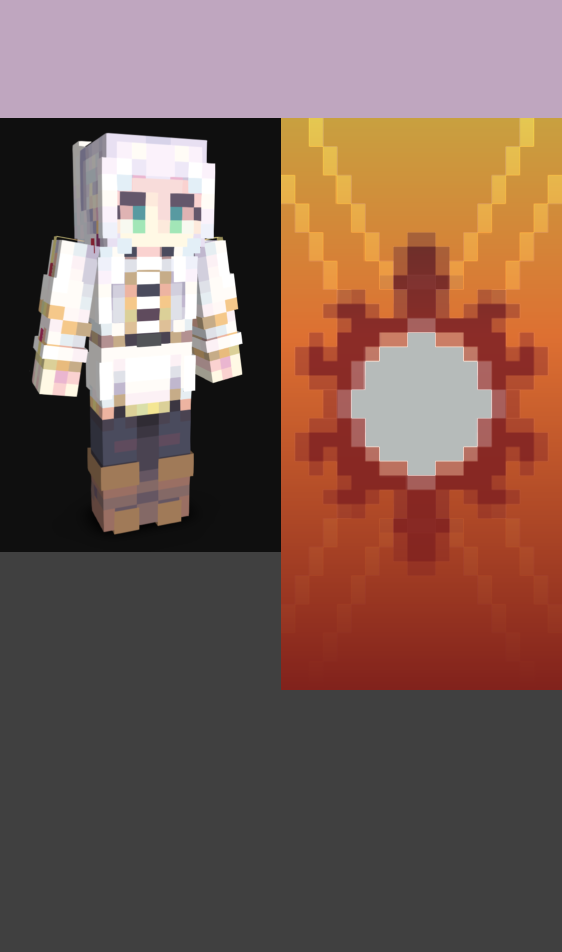
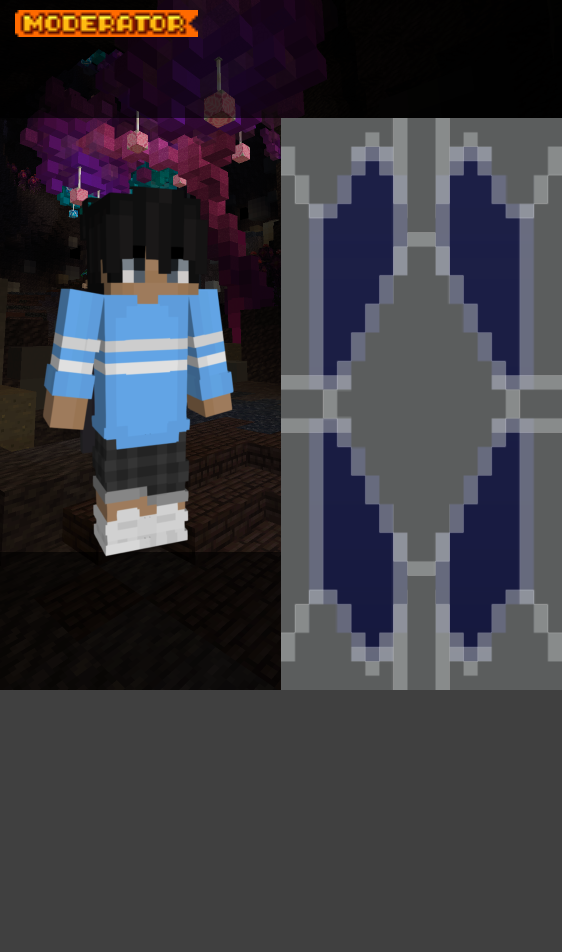
progress on card

diff --git a/statscard/statscard.go b/statscard/statscard.go
@@ -34,12 +34,31 @@ var colorMap = map[string]color.RGBA{
 	"WHITE":      {R: 182, G: 187, B: 186, A: 255},
 }
 
+const darkenFactor = 0.5
+
+var darkenedMap = func() map[string]color.RGBA {
+	darkened := make(map[string]color.RGBA)
+
+	for name, col := range colorMap {
+		darkened[name] = color.RGBA{
+			R: uint8(float64(col.R) * darkenFactor),
+			G: uint8(float64(col.G) * darkenFactor),
+			B: uint8(float64(col.B) * darkenFactor),
+			A: col.A, // Keep alpha unchanged
+		}
+	}
+
+	return darkened
+}()
+
+const darken = 0.5
+
 const width, height = 562, 952 // magic numbers
-const header_width, header_height = width, 118
-const image_width, image_height = width / 2, 434
-const main_width, main_height = width, height - header_height
-const banner_width, banner_height = width - image_width, height - header_height - footer_height
-const footer_width, footer_height = width, 262
+const headerWidth, headerHeight = width, 118
+const imageWidth, imageHeight = width / 2, 434
+const mainWidth, mainHeight = width, height - headerHeight
+const bannerWidth, bannerHeight = width - imageWidth, height - headerHeight - footerHeight
+const footerHidth, footerHeight = width, 262
 
 func RecolorImage(img image.Image, recolor color.RGBA) image.Image {
 	bounds := img.Bounds()
@@ -76,10 +95,10 @@ func LoadImage(filePath string) (image.Image, error) {
 }
 
 func CreateBanner(data models.PlayerData) (*gg.Context, error) {
-	api_URL := "https://api.wynncraft.com/v3/guild/%s"
+	apiURL := "https://api.wynncraft.com/v3/guild/%s"
 	guild := data.Guild.Name
 
-	url := fmt.Sprintf(api_URL, guild)
+	url := fmt.Sprintf(apiURL, guild)
 	resp, err := http.Get(url)
 	if err != nil {
 		return nil, fmt.Errorf("cannot access url")
@@ -88,32 +107,33 @@ func CreateBanner(data models.PlayerData) (*gg.Context, error) {
 
 		var guildData models.GuildData
 		err = json.NewDecoder(resp.Body).Decode(&guildData)
+		banner := gg.NewContext(bannerWidth, bannerHeight)
 
 		if err != nil {
-			return nil, fmt.Errorf("cannot decode json")
-		} else {
-			banner := gg.NewContext(banner_width, banner_height)
-
-			banner.SetColor(colorMap[guildData.Banner.Base])
+			banner.SetColor(darkenedMap["GRAY"])
 			banner.Clear()
-			banner.Scale(banner_width/160.0, banner_height/320.0)
+		} else {
+			// banner := gg.NewContext(bannerWidth, bannerHeight)
+
+			banner.SetColor(darkenedMap[guildData.Banner.Base])
+			banner.Clear()
+			banner.Scale(bannerWidth/160.0, bannerHeight/320.0)
 
 			for _, layer := range guildData.Banner.Layers {
-				color := colorMap[layer.Colour]
-				image_path := fmt.Sprintf("statscard/banner/%s.png", layer.Pattern)
-				layer_base, err := LoadImage(image_path)
+				color := darkenedMap[layer.Colour]
+				imagePath := fmt.Sprintf("statscard/banner/%s.png", layer.Pattern)
+				layerBase, err := LoadImage(imagePath)
 				if err != nil {
 					return nil, fmt.Errorf("problem loading image")
 				}
-				recolored_image := RecolorImage(layer_base, color)
+				recoloredImage := RecolorImage(layerBase, color)
 				if err != nil {
 					return nil, fmt.Errorf("cannot draw layer")
 				}
-				banner.DrawImage(recolored_image, 0, 0)
+				banner.DrawImage(recoloredImage, 0, 0)
 			}
-
-			return banner, nil
 		}
+		return banner, nil
 
 	}
 }
@@ -124,28 +144,34 @@ func CreateStatsCard(data models.PlayerData, outputDir string, fileName string) 
 
 	// background
 	card.SetColor(color.RGBA{R: 64, G: 64, B: 64, A: 255})
-	card.Clear()
+	card.Clear() // this only ends up in the footer tbh
+
+	background, err := LoadImage("statscard/images/background.png")
+	if err != nil {
+		return fmt.Errorf("failed to load background: %v", err)
+	}
+	card.DrawImage(background, 0, 0)
 
 	// boxes
-	card.SetColor(color.RGBA{R: 191, G: 166, B: 191, A: 255})
-	card.DrawRectangle(0, 0, header_width, header_height)
-	card.Fill()
+	card.SetColor(color.RGBA{R: 0, G: 0, B: 0, A: 158})
+	card.DrawRectangle(0, 0, headerWidth, headerHeight)
 
-	card.SetColor(color.RGBA{R: 15, G: 15, B: 15, A: 255})
-	card.DrawRectangle(0, header_height, image_width, image_height)
+	card.DrawRectangle(0, headerHeight+imageHeight, imageWidth, bannerHeight-imageHeight)
 	card.Fill()
 
 	// player avatar
-	avatar_img, err := fetchAvatar(data.Username)
+
+	avatarImg, err := fetchAvatar(data.Username)
 	if err != nil {
 		return fmt.Errorf("failed to fetch avatar: %v", err)
 	}
-	scaling := min(image_width/512.0, image_height/869.0)
+
+	scaling := min(imageWidth/512.0, imageHeight/869.0) * 0.9
 	avatar := gg.NewContext(int(math.Round(512*scaling)), int(math.Round(869*scaling)))
 	avatar.Scale(scaling, scaling)
-	avatar.DrawImage(avatar_img, 0, 0)
+	avatar.DrawImage(avatarImg, 0, 0)
 
-	card.DrawImageAnchored(avatar.Image(), image_width/2, header_height+image_height/2, 0.5, 0.5)
+	card.DrawImageAnchored(avatar.Image(), imageWidth/2, headerHeight+imageHeight/2, 0.5, 0.4)
 
 	// guild background
 	banner, err := CreateBanner(data)
@@ -153,7 +179,23 @@ func CreateStatsCard(data models.PlayerData, outputDir string, fileName string) 
 		return fmt.Errorf("error creating banner %v", err)
 	}
 
-	card.DrawImage(banner.Image(), image_width, header_height)
+	card.DrawImage(banner.Image(), imageWidth, headerHeight)
+
+	// header content
+	rankBadge := (*data.RankBadge)[15 : len(*data.RankBadge)-4]
+	rankImg, err := LoadImage(fmt.Sprintf("statscard/ranks/%s.png", rankBadge))
+	if err != nil {
+		return fmt.Errorf("error loading rank badge: %v", err)
+	}
+	badge := gg.NewContext(int(math.Round(headerWidth/3.0)), int(math.Round(headerHeight/3.0)))
+	badge.Scale(math.Round(headerHeight/45.0), math.Round(headerHeight/45.0))
+	badge.DrawImage(rankImg, 0, 0)
+
+	card.DrawImage(badge.Image(), 15, 10)
+
+	if err := card.LoadFontFace("/Library/Fonts/Impact.ttf", 96); err != nil {
+		panic(err)
+	}
 
 	saveErr := card.SavePNG(outputDir + "/" + fileName)
 	if saveErr != nil {

diff --git a/pythonhelper/svg.py b/pythonhelper/svg.py
@@ -60,59 +60,82 @@ def download_and_convert_svgs(svg_urls, output_dir):
 
 if __name__ == "__main__":
     # List of URLs to download SVGs from
-    patterns = [
-        "SQUARE_BOTTOM_LEFT", # bottom left quad
-        "SQUARE_BOTTOM_RIGHT", # bottom right quad
-        "SQUARE_TOP_LEFT", # top left quad
-        "SQUARE_TOP_RIGHT", # top right quad
-        "STRIPE_BOTTOM", # bottom stripe
-        "STRIPE_TOP", # top stripe
-        "STRIPE_LEFT", # left stripe
-        "STRIPE_RIGHT", # right stripe
-        "STRIPE_CENTER", # vertical stripe
+    # patterns = [
+    #     "SQUARE_BOTTOM_LEFT", # bottom left quad
+    #     "SQUARE_BOTTOM_RIGHT", # bottom right quad
+    #     "SQUARE_TOP_LEFT", # top left quad
+    #     "SQUARE_TOP_RIGHT", # top right quad
+    #     "STRIPE_BOTTOM", # bottom stripe
+    #     "STRIPE_TOP", # top stripe
+    #     "STRIPE_LEFT", # left stripe
+    #     "STRIPE_RIGHT", # right stripe
+    #     "STRIPE_CENTER", # vertical stripe
 
-        "STRIPE_MIDDLE", # horizontal stripe
-        "STRIPE_DOWNRIGHT", # major diagonal
-        "STRIPE_DOWNLEFT", # minor diagonal
-        "STRIPE_SMALL", # river
-        "CROSS", # cross
-        "TRIANGLE_BOTTOM", # bottom triangle
-        "TRIANGLE_TOP", # top triangle
-        "TRIANGLES_BOTTOM", # bottom triangles
-        "TRIANGLES_TOP", # top triangles
+    #     "STRIPE_MIDDLE", # horizontal stripe
+    #     "STRIPE_DOWNRIGHT", # major diagonal
+    #     "STRIPE_DOWNLEFT", # minor diagonal
+    #     "STRIPE_SMALL", # river
+    #     "CROSS", # cross
+    #     "TRIANGLE_BOTTOM", # bottom triangle
+    #     "TRIANGLE_TOP", # top triangle
+    #     "TRIANGLES_BOTTOM", # bottom triangles
+    #     "TRIANGLES_TOP", # top triangles
 
-        "DIAGONAL_LEFT", # top left
-        "DIAGONAL_RIGHT", # bottom right
-        "DIAGONAL_LEFT_MIRROR", # bottom left
-        "DIAGONAL_RIGHT_MIRROR", # top right
-        "HALF_VERTICAL", # left half
-        "HALF_HORIZONTAL", # top half
-        "HALF_VERTICAL_MIRROR", # right half
-        "HALF_HORIZONTAL_MIRROR", # bottom half
-        "BORDER", # border
+    #     "DIAGONAL_LEFT", # top left
+    #     "DIAGONAL_RIGHT", # bottom right
+    #     "DIAGONAL_LEFT_MIRROR", # bottom left
+    #     "DIAGONAL_RIGHT_MIRROR", # top right
+    #     "HALF_VERTICAL", # left half
+    #     "HALF_HORIZONTAL", # top half
+    #     "HALF_VERTICAL_MIRROR", # right half
+    #     "HALF_HORIZONTAL_MIRROR", # bottom half
+    #     "BORDER", # border
 
-        "CREEPER", # creeper
-        "GRADIENT", # gradient down
-        "BRICKS", # bricks
-        "SKULL", # skull
-        "MOJANG", # thing
+    #     "CREEPER", # creeper
+    #     "GRADIENT", # gradient down
+    #     "BRICKS", # bricks
+    #     "SKULL", # skull
+    #     "MOJANG", # thing
 
-        "CURLY_BORDER", # triangle border
-        "STRAIGHT_CROSS", # horizontal cross
-        "GRADIENT_UP", # gradient up
-        "FLOWER", # flower
-        "RHOMBUS_MIDDLE", # rhombus
-        "CIRCLE_MIDDLE", # circle
+    #     "CURLY_BORDER", # triangle border
+    #     "STRAIGHT_CROSS", # horizontal cross
+    #     "GRADIENT_UP", # gradient up
+    #     "FLOWER", # flower
+    #     "RHOMBUS_MIDDLE", # rhombus
+    #     "CIRCLE_MIDDLE", # circle
         
+    # ]
+
+    # svg_urls = [
+    #     f"https://beta-cdn.wynncraft.com/nextgen/banners/{pattern}.svg" for pattern in patterns if pattern != ""
+    # ]
+
+    ranks = [
+        "vip",
+        "vipplus",
+        "hero",
+        "champion",
+        "media",
+        "item",
+        "moderator",
+        "administrator",
+        "builder",
+        "gamemaster",
+        "cmd",
+        "hybrid",
+        "qa",
+        "art",
+        "music",
     ]
 
     svg_urls = [
-        f"https://beta-cdn.wynncraft.com/nextgen/banners/{pattern}.svg" for pattern in patterns if pattern != ""
+        f"https://cdn.wynncraft.com/nextgen/badges/rank_{rank}.svg" for rank in ranks
     ]
 
     # Output directory for PNG files
-    output_directory = "statscard/banner"
+    output_directory = "statscard/ranks"
 
     # Run the download and conversion process
     download_and_convert_svgs(svg_urls, output_directory)
     print("All SVGs downloaded and converted to PNG!")
+

diff --git a/models/models.go b/models/models.go
@@ -1,28 +1,28 @@
 package models
 
 type PlayerData struct {
-	Username         string               `json:"username"`
-	Online           bool                 `json:"online"`
-	Server           string               `json:"server"`
-	ActiveCharacter  string               `json:"activeCharacter"`
-	Nickname         *string              `json:"nickname"`
-	UUID             string               `json:"uuid"`
-	Rank             string               `json:"rank"`
-	RankBadge        string               `json:"rankBadge"`
-	LegacyRankColour RankColour           `json:"legacyRankColour"`
-	ShortenedRank    *string              `json:"shortenedRank"`
-	SupportRank      string               `json:"supportRank"`
-	Veteran          *bool                `json:"veteran"`
-	FirstJoin        string               `json:"firstJoin"`
-	LastJoin         string               `json:"lastJoin"`
-	Playtime         float64              `json:"playtime"`
-	Guild            Guild                `json:"guild"`
-	GlobalData       GlobalData           `json:"globalData"`
-	ForumLink        *string              `json:"forumLink"`
-	Ranking          Ranking              `json:"ranking"`
-	PreviousRanking  Ranking              `json:"previousRanking"`
-	PublicProfile    bool                 `json:"publicProfile"`
-	Characters       map[string]Character `json:"characters"`
+	Username         string                `json:"username"`
+	Online           bool                  `json:"online"`
+	Server           *string               `json:"server"`
+	ActiveCharacter  *string               `json:"activeCharacter"`
+	Nickname         *string               `json:"nickname"`
+	UUID             string                `json:"uuid"`
+	Rank             string                `json:"rank"`
+	RankBadge        *string               `json:"rankBadge"`
+	LegacyRankColour *RankColour           `json:"legacyRankColour"`
+	ShortenedRank    *string               `json:"shortenedRank"`
+	SupportRank      *string               `json:"supportRank"`
+	Veteran          *bool                 `json:"veteran"`
+	FirstJoin        string                `json:"firstJoin"`
+	LastJoin         string                `json:"lastJoin"`
+	Playtime         float64               `json:"playtime"`
+	Guild            *Guild                `json:"guild"`
+	GlobalData       GlobalData            `json:"globalData"`
+	ForumLink        *string               `json:"forumLink"`
+	Ranking          Ranking               `json:"ranking"`
+	PreviousRanking  Ranking               `json:"previousRanking"`
+	PublicProfile    bool                  `json:"publicProfile"`
+	Characters       *map[string]Character `json:"characters"`
 }
 
 type RankColour struct {
@@ -114,7 +114,6 @@ type Character struct {
 	Logins          int                   `json:"logins"`
 	Deaths          int                   `json:"deaths"`
 	Discoveries     int                   `json:"discoveries"`
-	PreEconomy      *string               `json:"preEconomy"`
 	PvP             PvPStats              `json:"pvp"`
 	GameMode        []string              `json:"gamemode"`
 	SkillPoints     map[string]int        `json:"skillPoints"`

diff --git a/main.go b/main.go
@@ -91,6 +91,7 @@ func getPlayerStat(s *discordgo.Session, i *discordgo.InteractionCreate, opts op
 
 		if err != nil {
 			builder.WriteString("cannot decode json \n")
+			builder.WriteString(err.Error())
 		} else {
 			builder.WriteString("does emojis work :sob: \n")
 			builder.WriteString("```CSS\n wait am overthinking this again``` \n")
